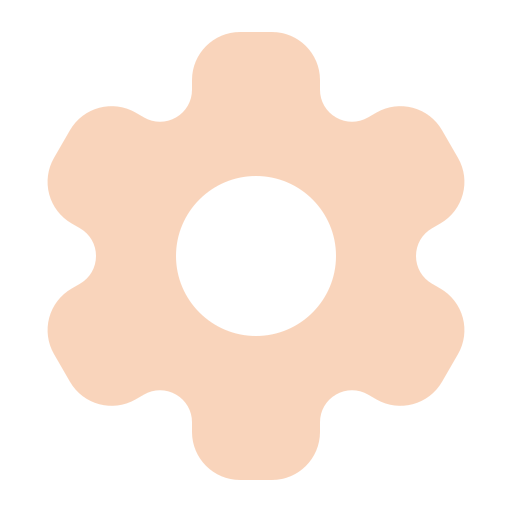
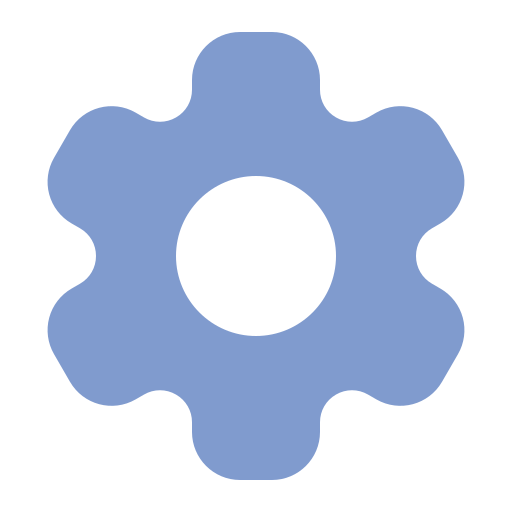
Updated journal prompt and background animation

diff --git a/src/components/JournalEntry.vue b/src/components/JournalEntry.vue
@@ -8,7 +8,7 @@
                 </header>
                 <div class="writing-section">
                     <div class="editing-tools"></div>
-                    <textarea id="journal-text" class="text-box suggested" v-model="intro" v-on:click="includeSuggestedText"></textarea>
+                    <textarea id="journal-text" class="text-box suggested" v-model="intro"></textarea>
                 </div>
                 <aside>
                     <a href="https://www.youtube.com/watch?v=dQw4w9WgXcQ" target="_blank">
@@ -16,11 +16,11 @@
                     </a>
                     <div class="aside-card-container">
                         <div class="moods aside-card">
-                        <h2>Moods</h2>
+                            <h2 class="aside-card-heading">Moods</h2>
                         </div>
                         <div class="aside-spacer"></div>
                         <div class="involved aside-card">
-                            <h2></h2>
+                            <h2 class="aside-card-heading"></h2>
                         </div>
                         <div class="settings-tray">
                             <a class="settings-tray-icon"><img src="../assets/settings-tray-icons/settings-icon.png" alt=""></a>
@@ -43,7 +43,7 @@
     /* background-color: #EABAF6; */
     height: 100vh;
     width: 100%;
-    background-image: url("../assets/images/rocks.jpg");
+    background-image: url("../assets/images/background.png");
 }
 
 .moving-background > img {
@@ -59,8 +59,8 @@
     height: 100%;
     /* glass */
     background: rgba(255, 255, 255, 0.2);
-    backdrop-filter: blur(90px);
-    -webkit-backdrop-filter: blur(90px);
+    backdrop-filter: blur(20px);
+    -webkit-backdrop-filter: blur(20px);
     border: 0px; 
 }
 
@@ -93,11 +93,11 @@ body, html {
 }
 
 .slider-image {
-  background: url("../assets/images/rocks.jpg") repeat-x;
+  background: url("../assets/images/background.png") repeat-x;
   height: 100%;
   width: 100%;
   object-fit: cover;
-  animation: slide 200s linear infinite;
+  animation: slide 400s linear infinite;
   margin: 0;
 }
 
@@ -243,7 +243,7 @@ aside {
     height: 30px;   
 }
 
-h2 {
+.aside-card-heading {
     color: #4B4B4B;
 }
 
@@ -267,7 +267,7 @@ h2 {
     width: 30px;
 }
 
-/* tray icons are this color: #f9d4bb */
+/* tray icons are this color: #EA9010 orange */
 .settings-tray-icon > img {
     height: 100%;
     width: 100%;
@@ -279,14 +279,53 @@ h2 {
 </style>
 
 <script setup>
-    import { ref } from 'vue'
+    import { onMounted, ref } from 'vue'
 
-    const intro = ref("Dear Diary, \n\nThere's no sunshine when she's gone.")
+    const songLyricsPrompt = [
+        "Ain't no sunshine when she's gone.",
+        "Ain't no mountain high enough.",
+        "Billie Jean is not my girl and the kid is not my son.",
+        "Girls just wanna have fun."
+    ]
 
-    function includeSuggestedText() {
-        const textBox = document.getElementById("journal-text")
-        textBox.classList.remove("suggested")
-        intro.value = "Dear Diary, \n\n"
+    function chooseSong() {
+        const song = songLyricsPrompt[Math.floor(Math.random() * songLyricsPrompt.length)]
+        return song
     }
+
+    const greeting = "Dear Diary, \n\n"
+    const journalPrompt = greeting + chooseSong()
+    const intro = ref(journalPrompt)
+    const noUserEntry = ref(true)
+
+    
+    onMounted(() => {
+    const textBox = document.getElementById("journal-text")
+
+    function revertToGreeting() {
+        textBox.classList.remove("suggested")
+        intro.value = greeting
+    }
+
+    function noUserEntry() {
+        noUserEntry.value = (intro.value == journalPrompt)
+        return noUserEntry
+    }
+
+    function revertToBaseEntry() {
+        if (noUserEntry()) {
+            console.log("No user entry")
+            textBox.classList.add("suggested")
+            intro.value = journalPrompt
+        }
+    }
+
+    textBox.onfocus = function() {revertToGreeting()}
+    textBox.onblur = function() {revertToBaseEntry()}
+    })
+
+
+
+
 
 </script>
